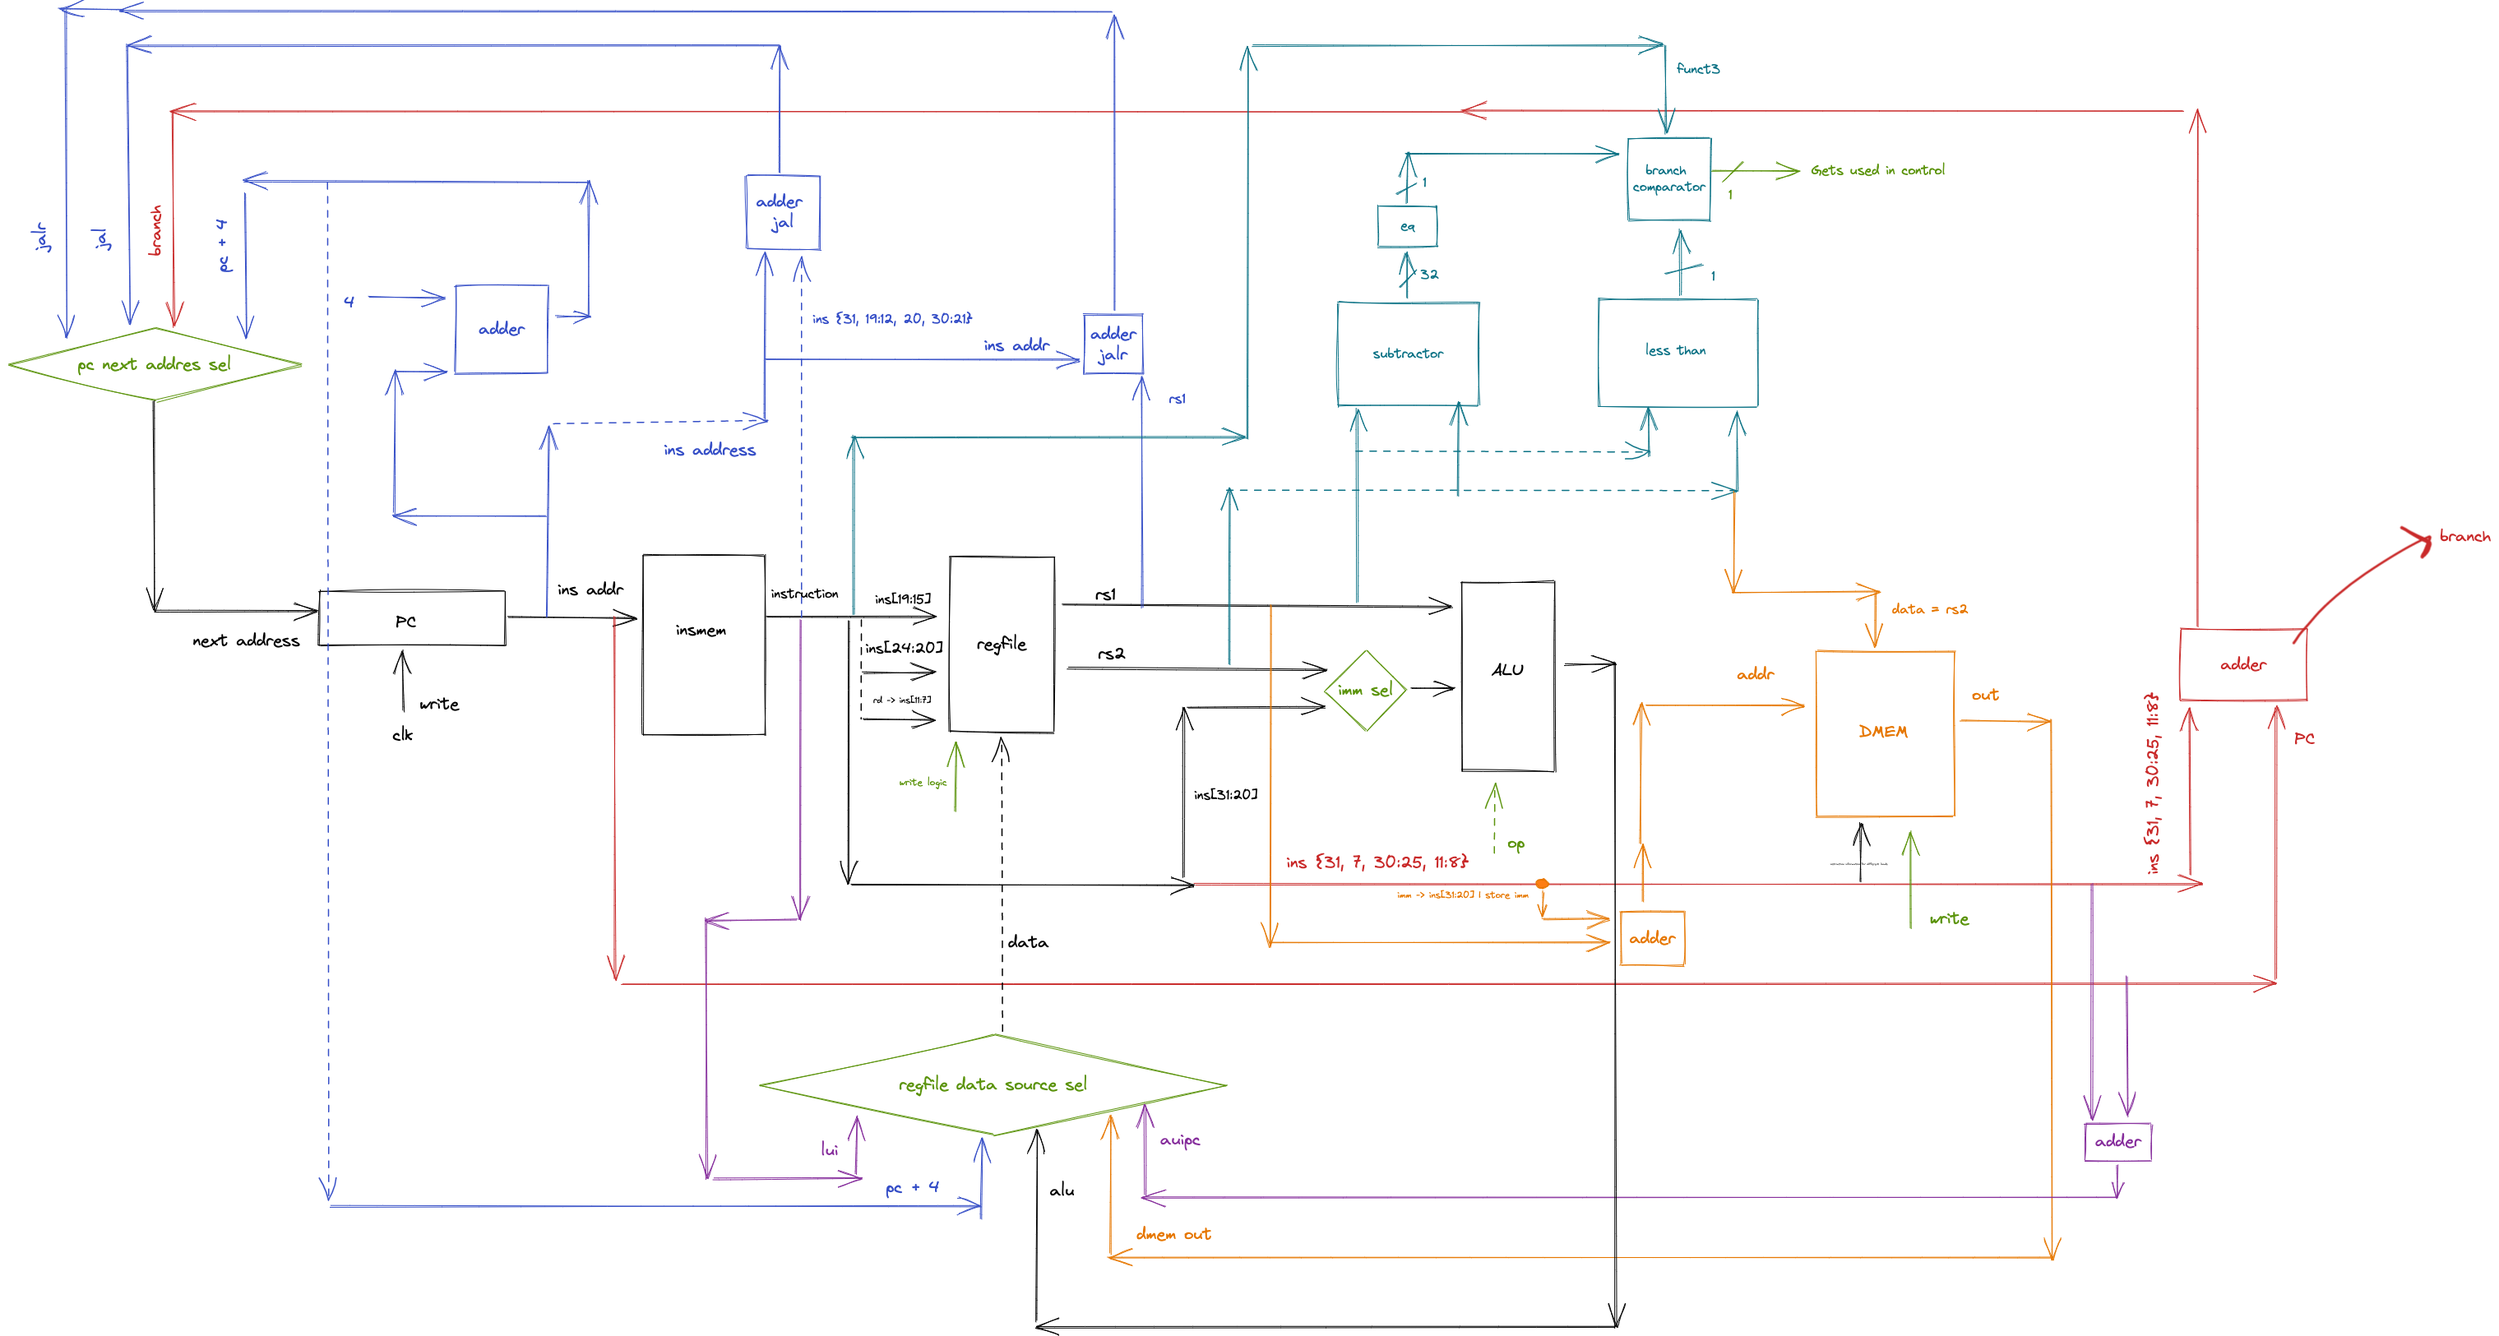
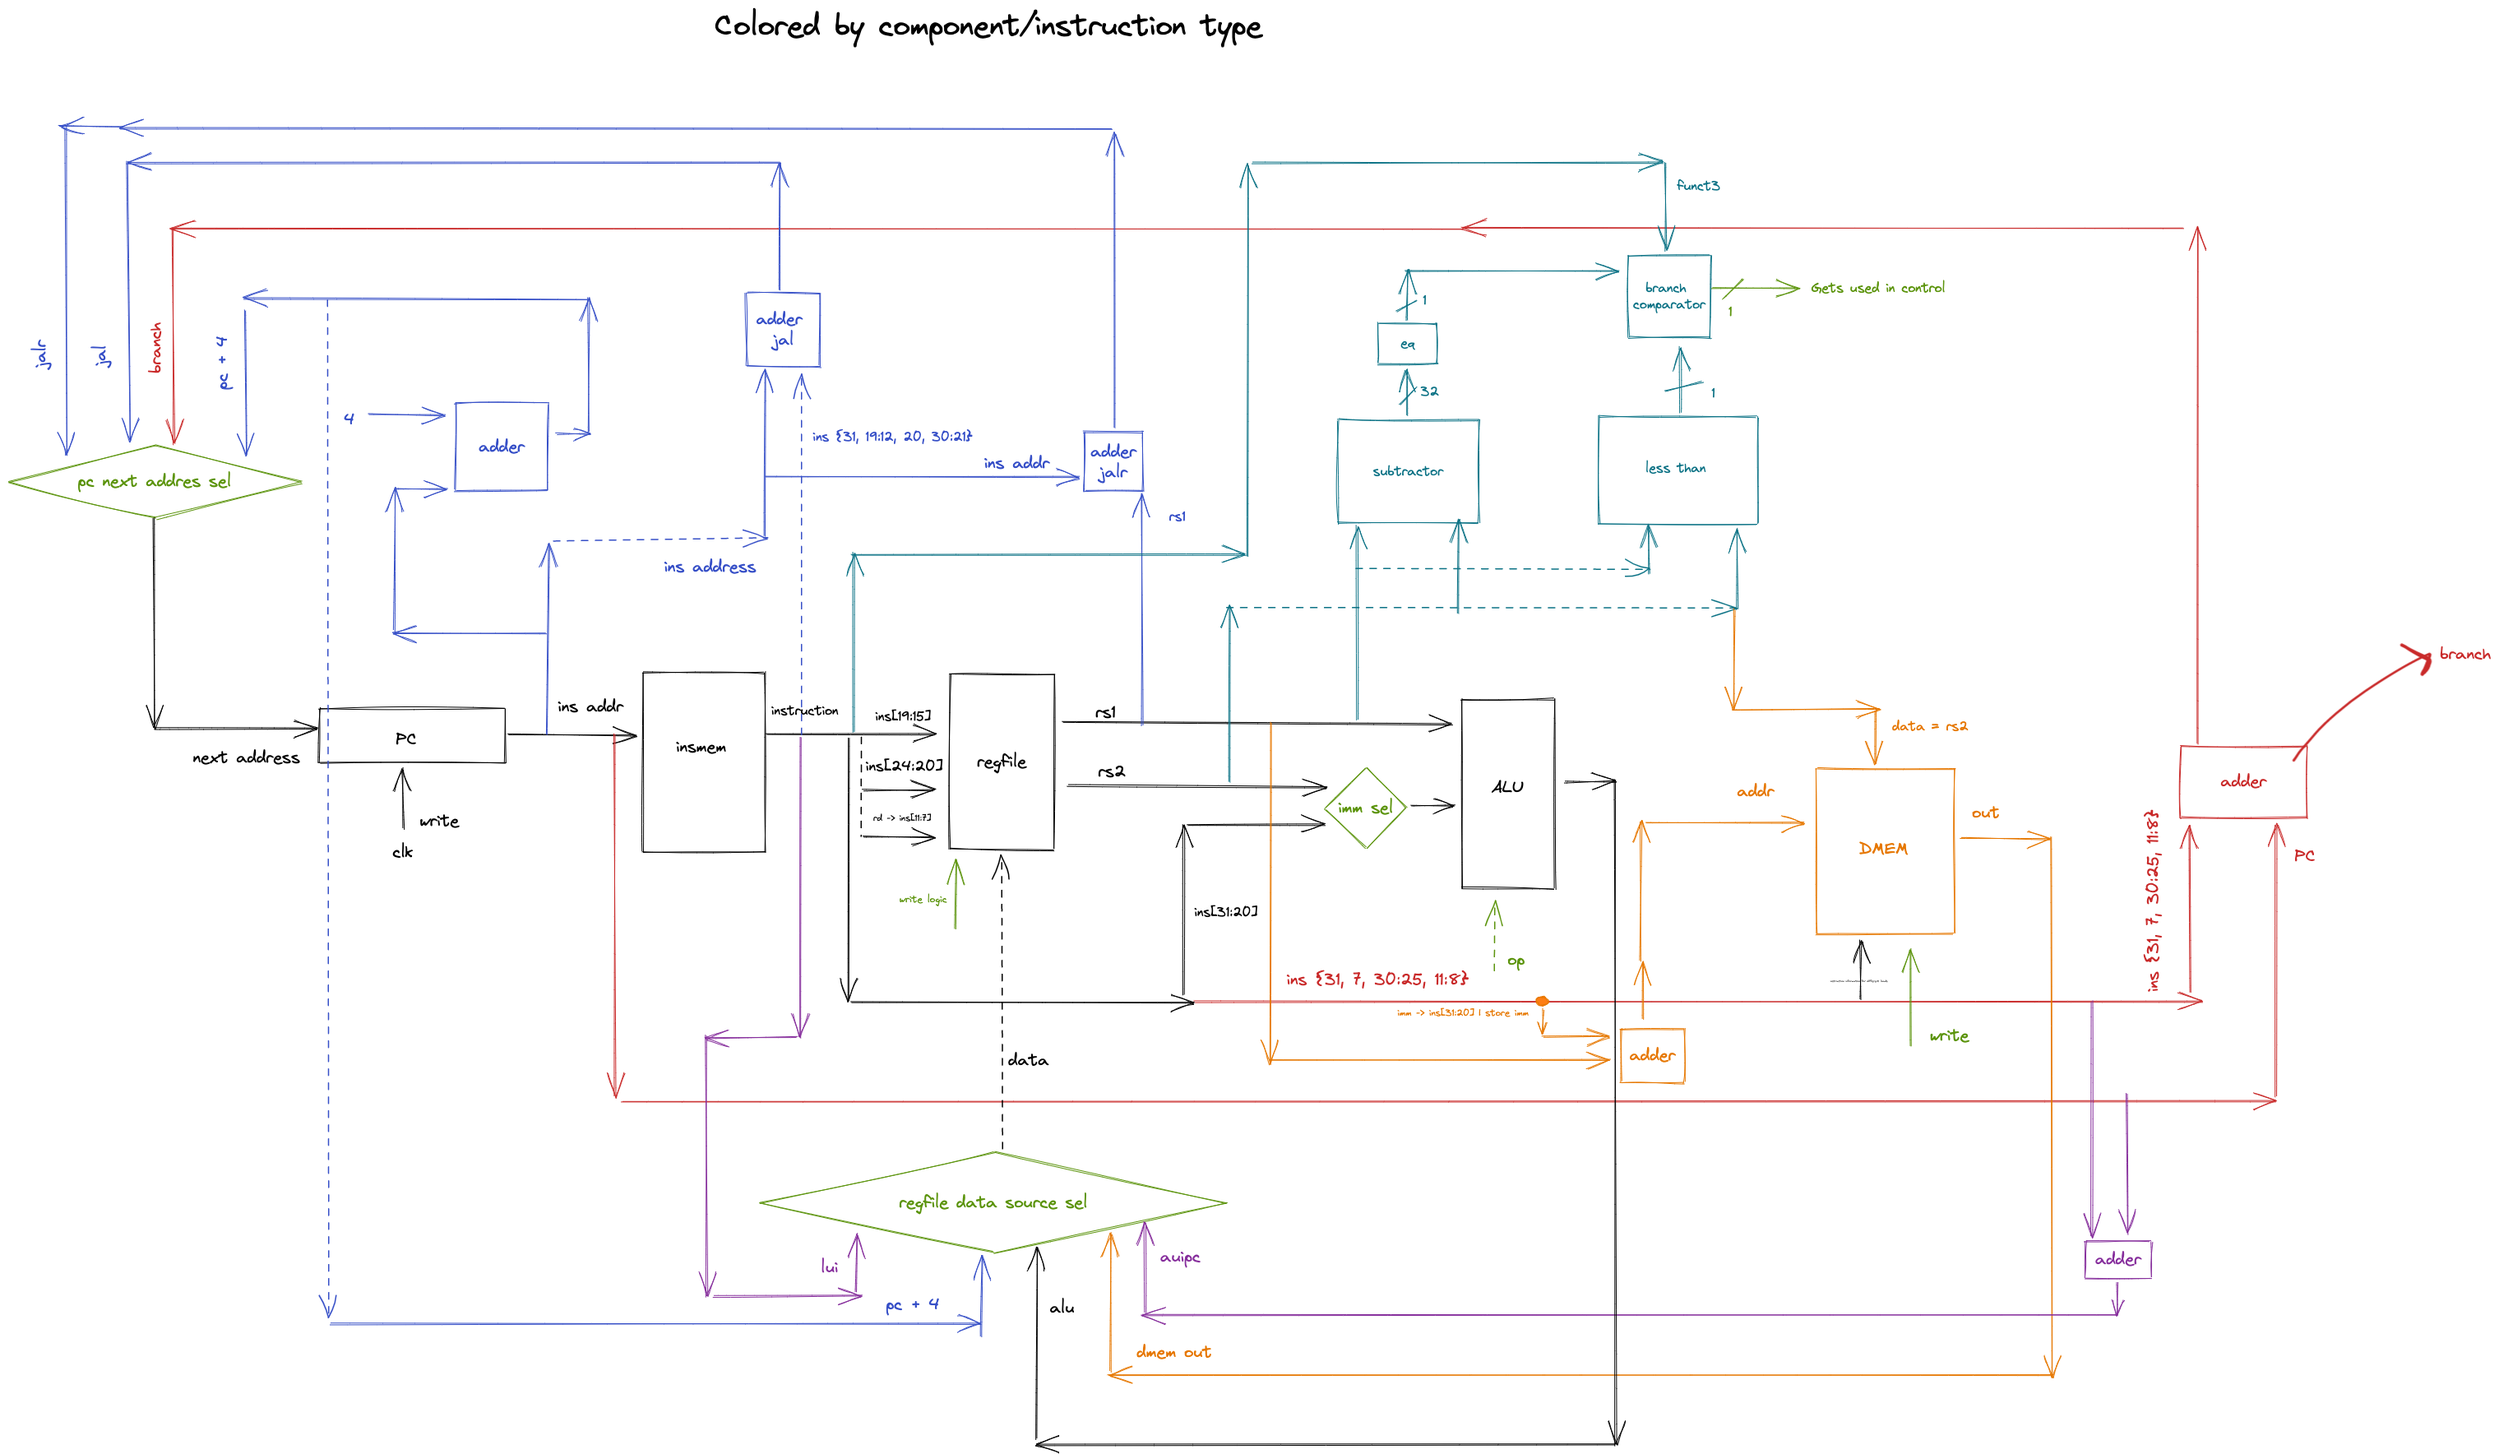
remove old comments in code; update readme

diff --git a/README.md b/README.md
@@ -1,5 +1,6 @@
 # A RISC-V implementation that runs a kernel with a TCP/IP Stack (a.k.a. a computer from the ground up)
-![Incomplete schematic](./schematic.png)
+![schematic colored by function that the hardware serves](./schematic.png)
+![schematic colored by pipelined paths](./schematic_pipelined.png)
 
 The schematic has some missing pieces (such as data memory) because I mostly used it as a way to think how things would fit, so don't take it as a serious design document.
 
@@ -7,12 +8,12 @@ In order to test the design, you have to input the instructions into the `initia
 
 I wrote this as a learning exercise while watching lectures and reading on computer architecture. As I watched some CS61C lectures from UC Berkeley I found online, I decided that instead of writing a RISC-V core in Logisim (as it gets asked in one of the class projects) I would write it in an actual HDL that would let me later extend it and perhaps synthesize it on an FPGA - at least that's the objective right now.
 
-I also want to write some software to make it useful - as the title of this README suggests - but I need to figure out how to implement some hardware (networking, graphics etc.).
+I also want to write some software to make it useful - as the title of this README suggests - but I need to figure out how to implement some hardware (networking, graphics etc.) for I/O.
 
 ## Parts
 
 * Hardware implementation in Verilog
-	* Single-cycle (for now) RISC-V (RV32I) core
+	* ~~Single-cycle (for now)~~ Pipelined RISC-V (RV32I) core
 	* 16k bytes of data memory
 	* TODO: some networking hardware? (no clue for now)
 * Software
